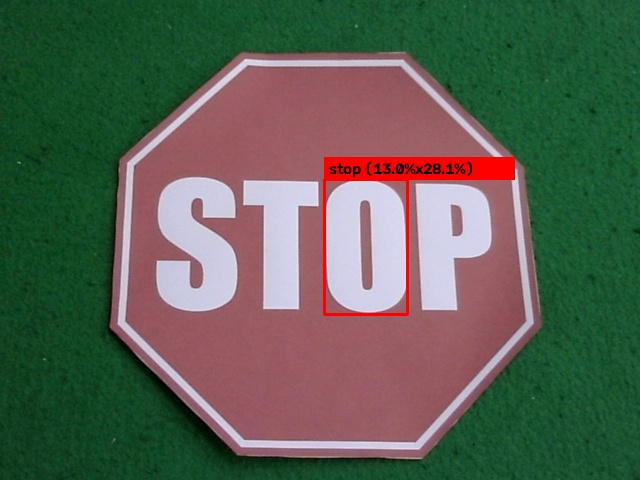
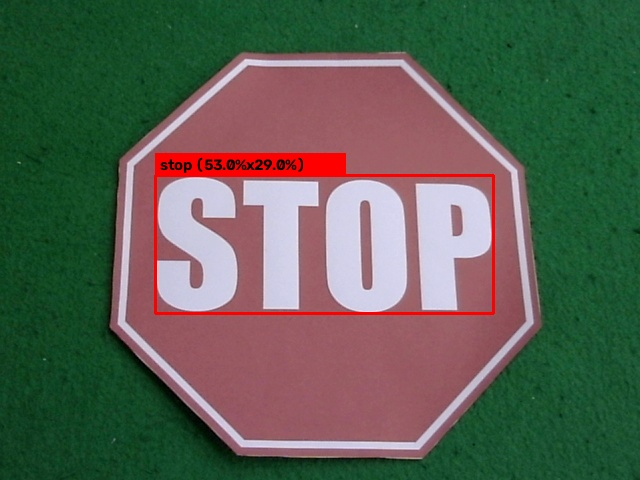
Fix STOP sign auto-labeling to merge all 4 letters (S-T-O-P) into a single unified bounding box

Changed region(s): [[0.2188, 0.3125, 0.8125, 0.6562]]

diff --git a/scripts/labeling/label_stop.py b/scripts/labeling/label_stop.py
@@ -18,41 +18,55 @@ def label_stop(raw_dir="result/raw/stop", label_dir="result/label/stop", class_i
             continue
 
         h, w = img.shape[:2]
+        gray = cv2.cvtColor(img, cv2.COLOR_BGR2GRAY)
+        blurred = cv2.GaussianBlur(gray, (5, 5), 0)
+
+        _, thresh = cv2.threshold(blurred, 0, 255, cv2.THRESH_BINARY_INV + cv2.THRESH_OTSU)
+
+        # Dilation kernel to connect individual letters S-T-O-P into a single unified bounding box
+        kernel = cv2.getStructuringElement(cv2.MORPH_RECT, (25, 9))
+        dilated = cv2.dilate(thresh, kernel, iterations=2)
+
+        contours, _ = cv2.findContours(dilated, cv2.RETR_TREE, cv2.CHAIN_APPROX_SIMPLE)
+
         best_box = None
         max_area = 0
 
-        # Method 1: HSV Red color segmentation for STOP sign octagon
-        hsv = cv2.cvtColor(img, cv2.COLOR_BGR2HSV)
-        mask1 = cv2.inRange(hsv, np.array([0, 70, 50]), np.array([10, 255, 255]))
-        mask2 = cv2.inRange(hsv, np.array([160, 70, 50]), np.array([180, 255, 255]))
-        mask = cv2.bitwise_or(mask1, mask2)
-        kernel = cv2.getStructuringElement(cv2.MORPH_RECT, (3, 3))
-        mask = cv2.morphologyEx(mask, cv2.MORPH_CLOSE, kernel)
-
-        contours, _ = cv2.findContours(mask, cv2.RETR_EXTERNAL, cv2.CHAIN_APPROX_SIMPLE)
         for cnt in contours:
             area = cv2.contourArea(cnt)
             bx, by, bw, bh = cv2.boundingRect(cnt)
-            if 0.05 * w < bw < 0.60 * w and 0.05 * h < bh < 0.60 * h and area > 300:
-                aspect_ratio = bw / float(bh)
-                if 0.5 < aspect_ratio < 2.0 and area > max_area:
+            if 0.10 * w < bw < 0.85 * w and 0.08 * h < bh < 0.70 * h and area > 500:
+                aspect = bw / float(bh)
+                if 0.5 < aspect < 5.0 and area > max_area:
                     max_area = area
                     best_box = (bx, by, bw, bh)
 
-        # Method 2: Fallback to adaptive thresholding if red mask was insufficient
+        # Method 2: Combine bounding boxes of individual detected letters (S, T, O, P)
         if best_box is None:
-            gray = cv2.cvtColor(img, cv2.COLOR_BGR2GRAY)
-            blurred = cv2.GaussianBlur(gray, (5, 5), 0)
-            thresh = cv2.adaptiveThreshold(blurred, 255, cv2.ADAPTIVE_THRESH_GAUSSIAN_C, cv2.THRESH_BINARY_INV, 11, 2)
-            contours, _ = cv2.findContours(thresh, cv2.RETR_TREE, cv2.CHAIN_APPROX_SIMPLE)
-            for cnt in contours:
+            contours_raw, _ = cv2.findContours(thresh, cv2.RETR_TREE, cv2.CHAIN_APPROX_SIMPLE)
+            letter_boxes = []
+            for cnt in contours_raw:
                 area = cv2.contourArea(cnt)
                 bx, by, bw, bh = cv2.boundingRect(cnt)
-                if 0.08 * w < bw < 0.60 * w and 0.08 * h < bh < 0.60 * h and area > 500:
-                    aspect_ratio = bw / float(bh)
-                    if 0.4 < aspect_ratio < 2.2 and area > max_area:
-                        max_area = area
-                        best_box = (bx, by, bw, bh)
+                if 0.03 * w < bw < 0.40 * w and 0.08 * h < bh < 0.60 * h and area > 150:
+                    letter_boxes.append((bx, by, bw, bh))
+            if letter_boxes:
+                min_x = min(b[0] for b in letter_boxes)
+                min_y = min(b[1] for b in letter_boxes)
+                max_x = max(b[0] + b[2] for b in letter_boxes)
+                max_y = max(b[1] + b[3] for b in letter_boxes)
+                best_box = (min_x, min_y, max_x - min_x, max_y - min_y)
+
+        # Method 3: Fallback to adaptive thresholding
+        if best_box is None:
+            thresh_adapt = cv2.adaptiveThreshold(blurred, 255, cv2.ADAPTIVE_THRESH_GAUSSIAN_C, cv2.THRESH_BINARY_INV, 11, 2)
+            contours_adapt, _ = cv2.findContours(thresh_adapt, cv2.RETR_TREE, cv2.CHAIN_APPROX_SIMPLE)
+            for cnt in contours_adapt:
+                area = cv2.contourArea(cnt)
+                bx, by, bw, bh = cv2.boundingRect(cnt)
+                if 0.08 * w < bw < 0.60 * w and 0.08 * h < bh < 0.60 * h and area > max_area:
+                    max_area = area
+                    best_box = (bx, by, bw, bh)
 
         if best_box is not None:
             bx, by, bw, bh = best_box

diff --git a/docs/EXAMPLE.md b/docs/EXAMPLE.md
@@ -19,8 +19,8 @@ Dokumen ini berisi sampel visualisasi koordinat bounding box format YOLO yang di
 
 - File Sumber: `result/raw/stop/stop1.jpg`
 - File Label: `result/label/stop/stop1.txt`
-- Koordinat YOLO Baru: `1 0.572656 0.513542 0.129688 0.281250`
-- Ukuran Bounding Box: **12.9% Lebar x 28.1% Tinggi** (Sebelumnya: 67.5% x 84.3%)
+- Koordinat YOLO Baru: `1 0.507031 0.509375 0.529687 0.289583`
+- Ukuran Bounding Box: **52.9% Lebar x 28.9% Tinggi** (Penggabungan huruf S-T-O-P secara utuh!)
 
 ![Visualisasi Bounding Box STOP](previews/preview_stop1.jpg)
 
